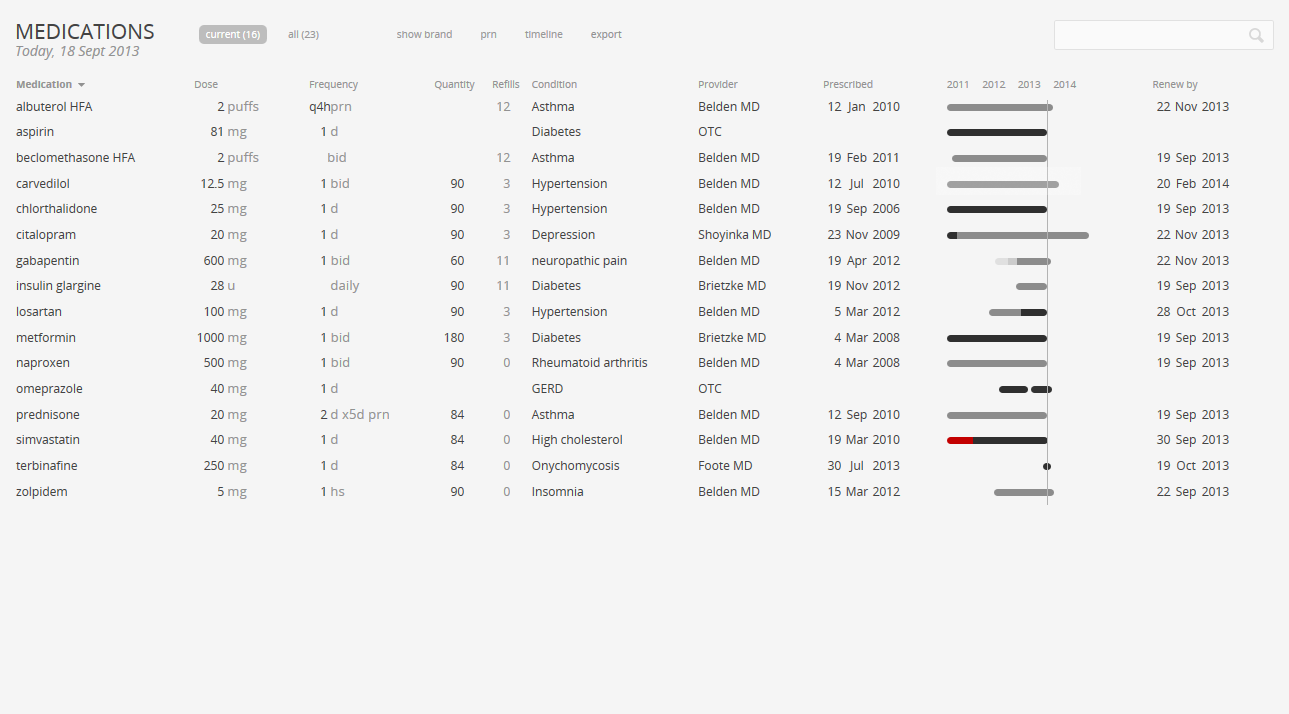
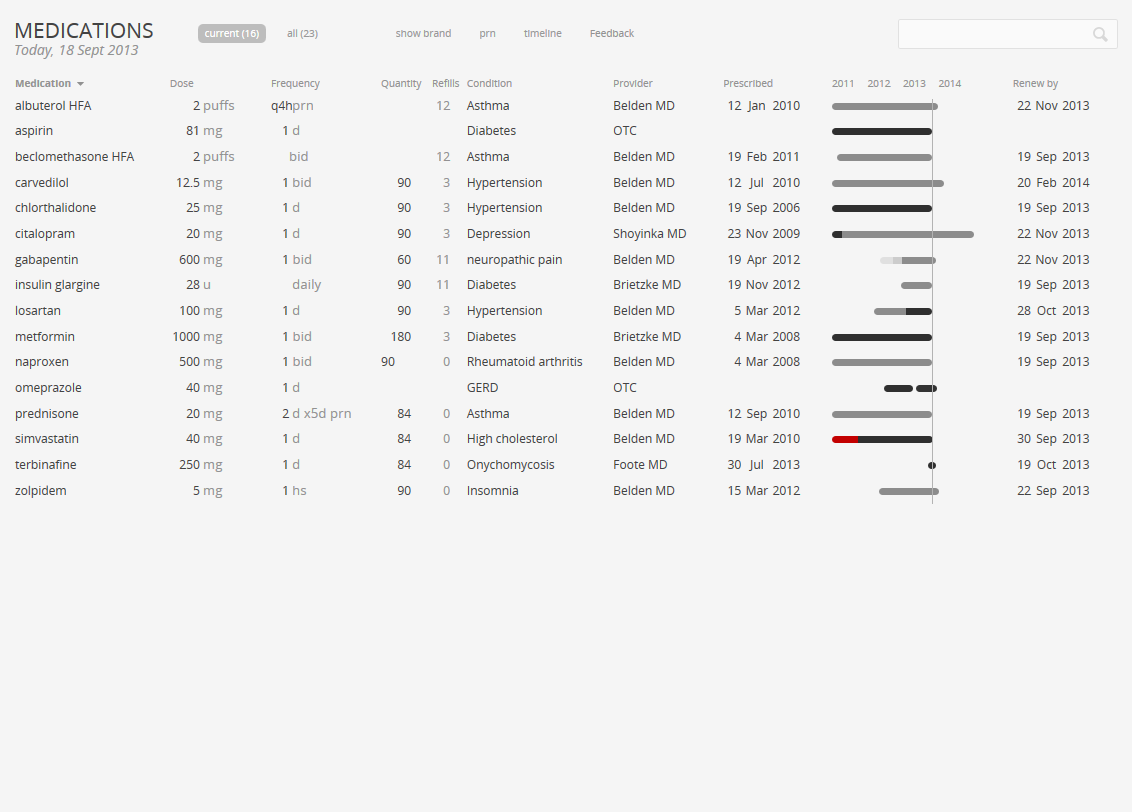
minor update to medication list, and book
Interactive Table: moved feedback link on medication list
Interactive Table: updated default screenshot for medication list widget
EHR Book: made twinlist video responsive to grid
EHR Book: added citations to human factors ch

diff --git a/book/human-factors.html b/book/human-factors.html
@@ -381,6 +381,66 @@
 				</div>
 			</div>
 		</footer>
+		<section class="citations">
+			<div class="container">
+				<div class="sixteen columns">
+					<hr />
+					<p>Citations</p>
+					<div class="section_cite">
+						<p class="grey"><strong>We See in Gestalts</strong></p>
+						<p>Wolfe, J. M., Kluender, K., R.; Levi, D, M., Bartoshuk, L, M., Herz, R. S., Klatzky, R, L., Lederman, S. J. (2008). Gestalt Grouping Principles <em>Sensation and Perception</em> (2nd ed.). Sunderland, MA: Sinauer Associates. </p>
+						<p>Johnson, J (2010). <em>Simple guide to understanding user interface design rules: Designing with the mind in mind.</em> Burlington, MA: Morgan Kaufman.</p>
+						<p>Rubin, E. (1921) Visuell Wahrgenommene Figuren : <em>Studien in psychologischer Analyse</em>. Kobenhaven: Gyldendalske boghandel.</p>
+
+						<p class="grey"><strong>Images</strong></p>
+						<p><strong>Figure 7.2</strong> <em>Gestalt_closure</em> [SVG file]. (2008). Retrieved January 28, 2014 from: http://en.wikipedia.org/wiki/File:Gestalt_closure.svg</p>
+						<p><strong>Figure 7.8</strong> Ruben, E. (psychologist). (1921). <em>Faces-Vase</em> [SVG file], Retrieved January 28,2014 from: http://en.wikipedia.org/wiki/File:Cup_or_faces_paradox.svg</p>
+
+						<p><strong>Gallery 7.2</strong> Few, Stephen (2013): Data Visualization for Human Perception. In: Soegaard, Mads and Dam, Rikke Friis (eds.). <em>he Encyclopedia of Human-Computer Interaction, 2nd Ed</em>. Aarhus, Denmark: The Interaction Design Foundation. Available online at http://www.interaction-design.org/encyclopedia/data_visualization_for_human_perception.html</p>
+					</div>
+					<div class="section_cite">
+						<p class="grey"><strong>I can’t see it but I use it</strong></p>
+						<p>Larson, A., &amp; Loschky, l. (2009). The contributions of central versus peripheral vision to scene gist recognitions. <em>Journal of Vision</em>, 9 (10:6), 1-16.</p>
+						<p>Johnson, J (2010). <em>Simple guide to understanding user interface design rules: Designing with the mind in mind.</em> Burlington, MA: Morgan Kaufman.</p>
+						<p>Ware, C. (2005). Visual queries: The foundation of visual thinking. <em>In Knowledge and information visualization</em> (pp. 27-35). Springer Berlin Heidelberg.</p>
+						<p>Weischenk, S.M. (2011). <em>100 things every designer needs to know about people</em>. Berkeley, CA: New Riders.</p>
+					</div>
+					<div class="section_cite">
+						<p class="grey"><strong>Pre-attentive Attributes</strong></p>
+						<p>Atienza, M., Cantero, J. L., &amp; Escera, C. (2001). Auditory information processing during human sleep as revealed by event-related brain potentials. <em>Clinical Neurophysiology</em>, 112(11), 2031-2045.</p>
+						<p>Appelbaum, L. G., &amp; Norcia, A. M. (2009). Attentive and pre-attentive aspects of figural processing. <em>Journal of Vision</em>, 9(11), 1-12.</p>
+						<p>Egeth, H. E., Yantis, S. (1997). Visual attention: Control, representation, and time course. <em>Annual Review of Psychology</em>, 48, 269-297.</p>
+						<p>Few, S. (2009).  <em>Now you see it: Simple visualization techniques for quantitative analysis</em>. Oakland, CA: Analytics Press.</p>
+						<p>Kourtzi, Z., &amp; Kanwisher, N. (2000). Cortical regions involved in perceiving object shape. <em>Journal of Neuroscience</em>, 20, 3310-3318.</p>
+						<p>Krummenacher, J., Grubert, A., &amp; Müller, H. J. (2010). Inter-trial and redundant-signals effects in visual search and discrimination tasks: Separable pre-attentive and post-selective effects. <em>Vision Research</em>, 50(14), 1382-1395.</p>
+						<p>Van der Heijden, A. H. C. (1996). Perception for selection, selection for action, and action for perception. <em>Visual Cognition</em>, 3(4), 357-361.
+						<p class="grey"><strong>Images</strong></p>
+						<p><strong>Figure 7.10 </strong>Few, S. (2004). Data Presentation: Tapping the power of visual perception. <em>Information Week</em>. Retrieved from: http//www.informationweek.com/software/information-management/data-presentation-tapping-the-power-of-visual-perception/d/d-id/1026932?</p>
+					</div>
+					<div class="section_cite">
+						<p class="grey"><strong>The Two Ways People Think</strong></p>
+						<p>Evans, J., &amp; Frankish, K. (Eds.) (2009). <em>In two minds: Dual processes and beyond</em>. New York, NY: Oxford University Press.</p>
+						<p>Evans, J. (2008). Dual-processing accounts of reasoning, judgment, and social cognition. <em>Annual Review of Psychology</em> 59: 255-78.</p>
+						<p>Kahneman, D. (2011). <em>Thinking, fast and slow</em>. New York, NY: Farrar, Straus and Giroux.</p>
+						<p>Stanovich, K.E. West, R.F. (2000). Individual Differences in Reasoning: Implications for the Rationality Debate. <em>Behavioral and Brain Sciences</em> 23, 655-65.</p>
+					</div>
+					<div class="section_cite">
+						<p class="grey"><strong>Working Memory</strong></p>
+						<p>Cowan, Nelson (2008). What are the differences between long-term, short-term, and working memory? <em>Progressive Brain Research</em>. 169 (169): 323–338.</p>
+						<p>Cowan, Nelson (2001). "The magical number 4 in short-term memory: A reconsideration of mental storage capacity". <em>Behavioral and Brain Sciences</em> 24: 87–185.</p>
+						<p>Engle, R. W., Tuholski, S. W., Laughlin, J. E., Conway, A. R. (September 1999). "Working memory, short-term memory, and general fluid intelligence: a latent-variable approach". <em>Journal of Experimental Psychology: General</em> 128(3): 309–31.</p>
+						<p>Revlin, Russell (20013). <em>Human cognition: Theory and practice</em>. New York, NY: Worth Publishers.</p>
+						<p>Towse, J. N., Hitch, G. J., Hutton, U. (April 2000). "On the interpretation of working memory span in adults". <em>Memory &amp; Cognition</em> 28 (3): 341–8</p>
+					</div>
+					<div class="section_cite">
+						<p class="grey"><strong>Cognitive Load</strong></p>
+						<p>DeLeeuw, K.E., &amp; Mayer, R.E. (2008). "A comparison of three measures of cognitive load: Evidence for separable measures of intrinsic, extraneous, and germane load". <em>Journal of Educational Psychology</em> 100 (1): 223–234.</p>
+						<p>Paas, F., Renkel, A., &amp; Sweller, J. (2004). Cognitive load theory: Instructional implications of the interaction between information structures and cognitive architecture. <em>Instructional Science</em> 32: 1–8.</p>
+						<p>Paas, F., Tuovinen, J.E., Tabbers, H.K., &amp; Van Gerven, P.W.M. (2003). "Cognitive load measurement as a means to advance cognitive load theory". <em>Educational Psychologist</em> 38 (1): 63–71.</p>
+						<p>Plass, J.L., Moreno, R., &amp; Brünken, R., ed. (2010). <em>Cognitive Load Theory</em>. New York: Cambridge University Press.
+				</div>
+			</div>
+		</section>
 	</section>
 	
 

diff --git a/book/medication-list.html b/book/medication-list.html
@@ -264,9 +264,9 @@
 					<div class="scenario">
 						<h5>Here’s a common scenario: Going into the exam room</h5>
 						<p>A general internist is about to go into the exam room to see a 70-year-old man with sixteen chronic diseases (diabetes, high blood pressure, high cholesterol, knee arthritis, depression, insomnia, etc.) who is taking seventeen medications. He notes that the patient’s blood pressure is about ten points too high. He plans to ask the patient if he has been taking any home blood pressures, and what those results are.</p>
+					</div>
 						<p>In this scenario, the physician needs to have an overall awareness of the patient’s medications, chronic problems, latest vital signs, and pertinent lab just prior to starting the face-to-face visit. (“Is he taking insulin? Is he on any high-risk drugs like warfarin?”). That way, the physician is able to give their full attention to the patient telling their story, and to avoid looking away at the EHR to be reminded of the medications. We can call that big picture of getting the patient in mind – their past and current data, their story, and the emotional tone of the human encounter – “establishing context.”</p>
 						<p>A single-page dashboard can display all that data. The physician just needs to see the name quickly. Avoid the temptation to add extraneous detail here. Concise lists are easier to read. The physician doesn’t need to see the quantity, number of refills, or the start dates in this task. If a brand name is used in the list, be sure to include the generic name as well. Dealing with brand vs. generic names and with compound names can be a challenge (see the following note).</p>
-					</div>
 					<div class="sidebar cf">
 						<h5>Handling brand and generic names</h5>
 						<p>This can get tricky. We’ll admit right now: there may not be one correct answer to the problem of whether to show the brand name, the generic name, or both names by default in the list. It depends on the context, and the people in the conversation. Somewhere in the EHR, there should be easy access to both the generic and the brand name. </p>

diff --git a/book/assets/css/layout.css b/book/assets/css/layout.css
@@ -81,6 +81,7 @@
 	h4 { font-size: 20px; line-height: 30px; margin-bottom: 4px;}
 	h5 { font-size: 18px; line-height: 24px; font-weight: bold;}
 	h6 { font-size: 14px; line-height: 21px; font: 14px/21px "HelveticaNeue", "Helvetica Neue", Helvetica, Arial, sans-serif; font-weight:bold; }
+	p.grey {color: #696969;}
 	.subheader { font-style: italic; color: #696969; }
 	.jarring {color: #cb1484;}
 	p.spacetop {
@@ -92,7 +93,7 @@
 	p.lead { font-size: 21px; line-height: 24px; color: #999;  }
 
 	em { font-style: italic; }
-	strong { font-weight: bold; color: #333; }
+	strong { font-weight: bold; }
 	small { font-size: 80%; }
 
 	.jarring {font-size: 28px; font-weight: bold;}
@@ -688,6 +689,15 @@
 	.scenario-list {
 		margin-bottom: 24px;
 	}
+	video.twinlist {
+		width: 768px;
+		height: 576px;
+	}
+	.citations  p {
+		font-size: 12px;
+		line-height: 18px;
+		color: #828282;
+	}
 
 /* #Page Styles
 ================================================== */
@@ -735,6 +745,10 @@
 	/* #Mobile (Portrait) Design for a width of 320px */
 	@media only screen and (max-width: 767px) {
 		.quicktip { width: 300px;}
+		video.twinlist {
+			width: 300px;
+			height: 225px;
+		}
 	}
 
 	/* #Mobile (Landscape) Design for a width of 480px */
@@ -747,6 +761,10 @@
 		.quicktip .tip{
 			margin-left: 145px;
 		}
+		video.twinlist {
+			width: 420px;
+			height: 315px;
+		}
 	}
 
 	/* Mobile Portrait Size to Mobile Landscape Size (devices and browsers) */
@@ -758,6 +776,10 @@
 		}
 		.quicktip .tip{
 			margin-left: 80px;
+		}
+		video.twinlist {
+			width: 300px;
+			height: 225px;
 		}
 	}
 

diff --git a/interactive-table/interactive-table.html b/interactive-table/interactive-table.html
@@ -40,13 +40,12 @@
 				<li class="action brandToggle"><a href="#">show brand</a></li>
 				<li class="action prnToggle"><a href="#">prn</a></li>
 				<li class="action view"><a href="../timeline/timeline.html">timeline</a></li>
-				<li class="action export"><a href="#">export</a></li>
+				<li class="action export"><a href="mailto:ehr-all@gmail.com?subject=EHR Medication List Feedback>Feedback">Feedback</a></li>
 			</ul>
 		</div>
 		
 		<!--<span class="show_closed fright">Show history</span>-->
 		<div id="search" class="fright cf">
-			<span class="feedback"><a href="mailto:ehr-all@gmail.com?subject=EHR Medication List Feedback>Feedback">Feedback</a></span>
 			<label for="filter"></label> <input type="text" name="filter" value="" id="filter" placeholder="" />
 		</div>
 	</section>

diff --git a/book/index.html b/book/index.html
@@ -25,7 +25,7 @@
 <div class="wrapper">
 	<div class="container header">
 		<div class="sixteen columns">
-			<h2 class="title">EHR Style Guide <span class="version">v1.5, 2-15-2013</span></h2>
+			<h2 class="title">EHR Style Guide <span class="version">v1.5, 2-15-2013</span><span class="feedback"><a href="mailto:ehrstyle@gmail.com?Subject=EHR%20feedback" target="_top">Feedback</a></span></h2>
 			<div class="authors">
 				<p>Jeff Belden MD, Jennifer Patel, Richelle Koopman MD, Catherine Plaisant PhD, Joi Moore PhD, Nathan Lowrance, Shreeya Gangwal, Juhan Sonin</p>
 			</div>
